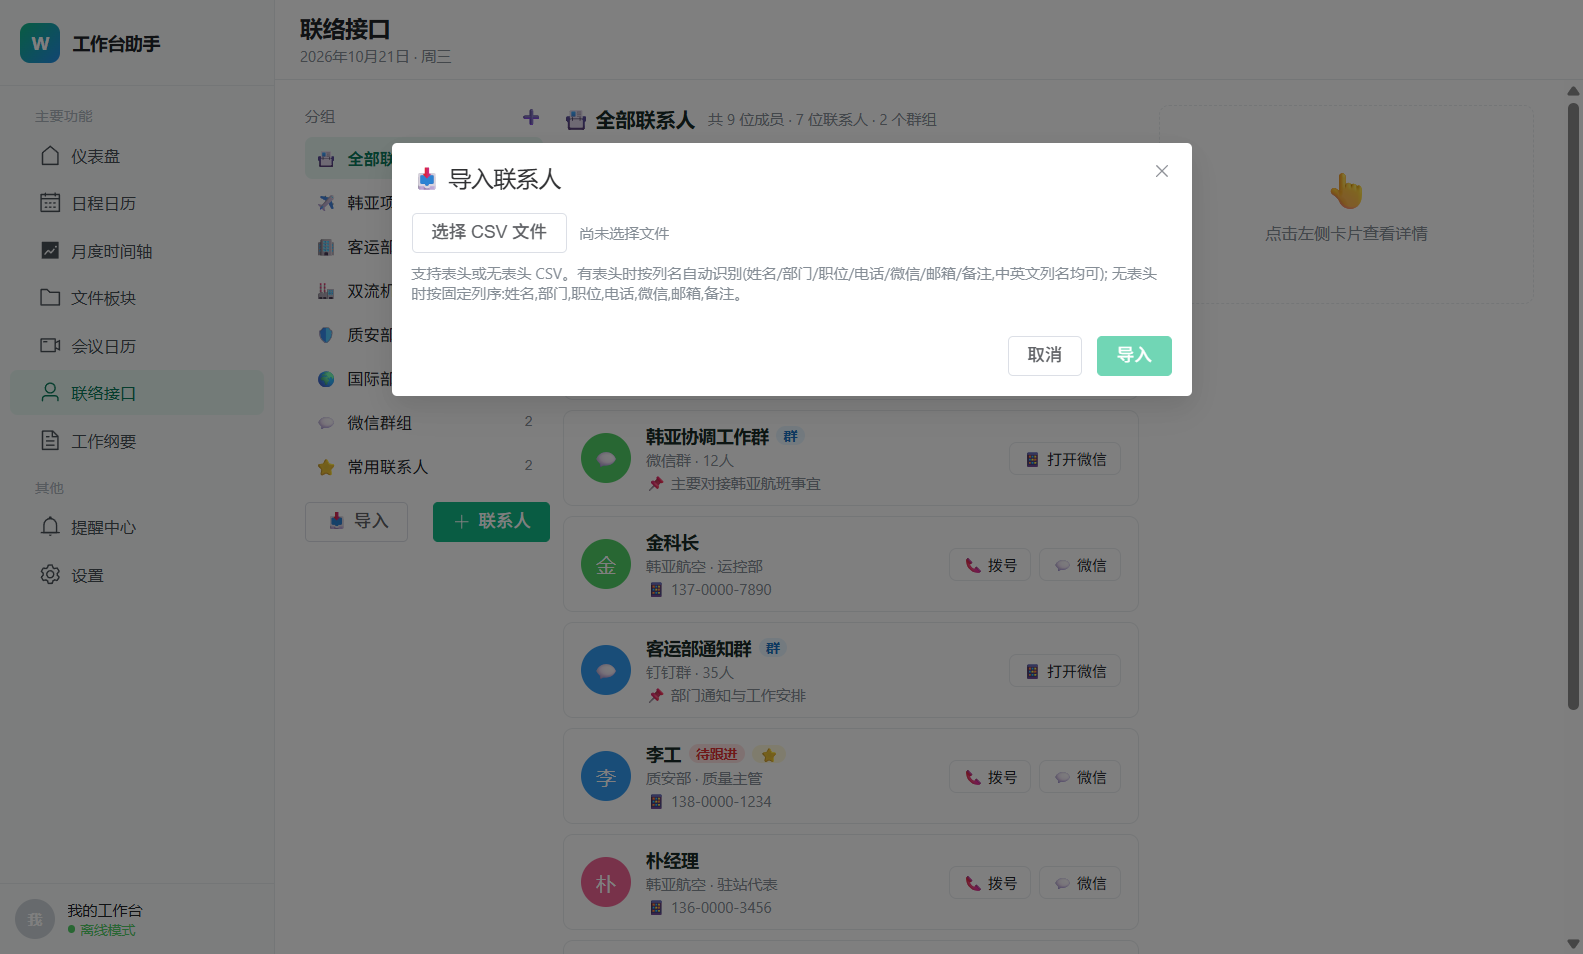
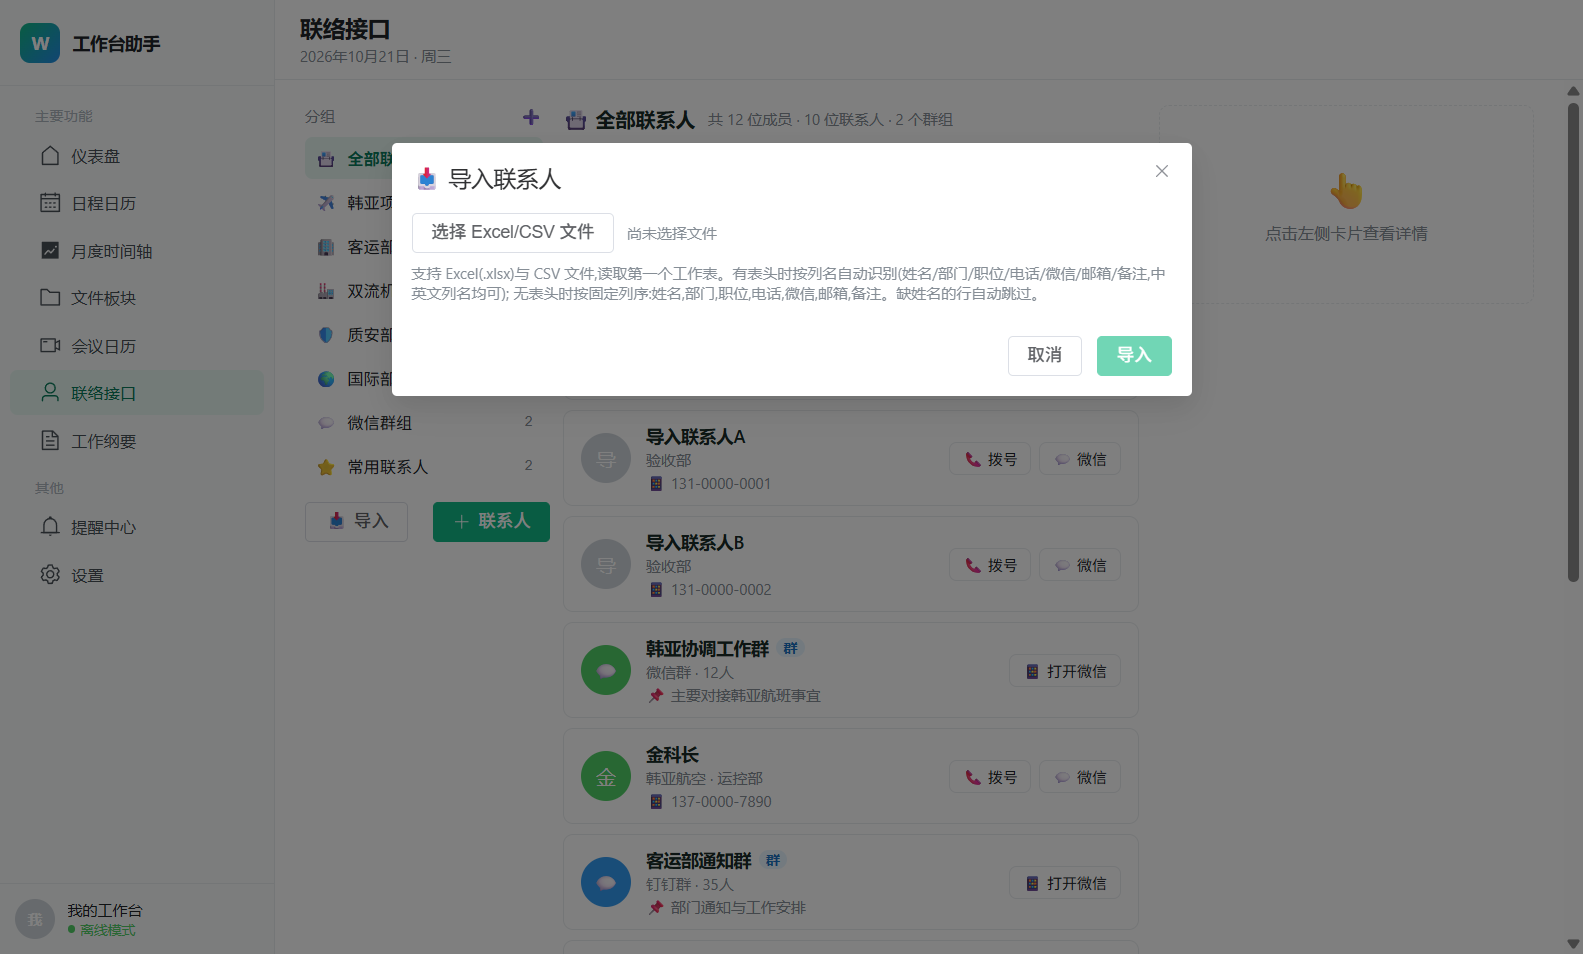
feat(板块05修订): 导入改为Excel优先:主进程SheetJS解析xlsx首个工作表为网格(数字单元格转字符串)、与CSV共用parseContactsRows语义层(表头识别/缺名跳过)、文件选择器过滤Excel/CSV、新增7项Excel网格解析单测(39/39)并更新验收报告与截图

diff --git a/work-assistant/src/renderer/src/utils/contacts.ts b/work-assistant/src/renderer/src/utils/contacts.ts
@@ -1,5 +1,5 @@
 /**
- * 联络接口纯计算逻辑:CSV 导入解析、分组/类型/待跟进筛选与排序、对接事项联动。
+ * 联络接口纯计算逻辑:通讯录导入解析(Excel 网格与 CSV 共用)、分组/类型/待跟进筛选与排序、对接事项联动。
  * 不依赖 DOM / 数据库,可在测试中独立验证(见 tests/contacts-tests.ts)。
  * 数据口径:通讯录同时容纳个人联系人与群组记录(PRD 4.6),二者同表、以 kind 区分。
  */
@@ -50,15 +50,16 @@ export function parseCsvLine(line: string): string[] {
 }
 
 /**
- * 解析通讯录 CSV:首行可为表头(按列名识别,兼容 姓名/名称/name 等),
+ * 解析通讯录表格网格(CSV 与 Excel 共用):首行可为表头(按列名识别,兼容 姓名/名称/name 等),
  * 无表头时按固定列序 姓名,部门,职位,电话,微信,邮箱,备注。缺姓名的行跳过并记录错误。
  */
-export function parseContactsCsv(text: string): { rows: CsvContact[]; errors: string[] } {
+export function parseContactsRows(grid: (string | number)[][]): { rows: CsvContact[]; errors: string[] } {
   const errors: string[] = []
-  const lines = text.split(/\r?\n/)
-  if (!lines.length || !lines.some((l) => l.trim())) return { rows: [], errors: ['文件为空'] }
+  if (!grid.length || !grid.some((r) => r.some((c) => String(c).trim()))) {
+    return { rows: [], errors: ['文件为空'] }
+  }
 
-  const header = parseCsvLine(lines[0])
+  const header = grid[0].map((c) => String(c ?? '').trim())
   const hasHeader = header.some((h) => /姓名|名称|name/i.test(h))
   const col = (patterns: RegExp): number => (hasHeader ? header.findIndex((h) => patterns.test(h)) : -1)
   const idx = hasHeader
@@ -74,25 +75,30 @@ export function parseContactsCsv(text: string): { rows: CsvContact[]; errors: st
     : { name: 0, dept: 1, pos: 2, phone: 3, wechat: 4, email: 5, remark: 6 }
 
   const rows: CsvContact[] = []
-  lines.slice(hasHeader ? 1 : 0).forEach((line, i) => {
-    if (!line.trim()) return
-    const cells = parseCsvLine(line)
-    const name = (idx.name >= 0 ? cells[idx.name] ?? '' : '').trim()
+  grid.slice(hasHeader ? 1 : 0).forEach((cells, i) => {
+    if (!cells.some((c) => String(c).trim())) return
+    const cell = (n: number): string => (n >= 0 && n < cells.length ? String(cells[n] ?? '').trim() : '')
+    const name = cell(idx.name)
     if (!name) {
       errors.push(`第 ${i + (hasHeader ? 2 : 1)} 行缺少姓名,已跳过`)
       return
     }
     rows.push({
       name,
-      department: (idx.dept >= 0 ? cells[idx.dept] ?? '' : '').trim(),
-      position: (idx.pos >= 0 ? cells[idx.pos] ?? '' : '').trim(),
-      phone: (idx.phone >= 0 ? cells[idx.phone] ?? '' : '').trim(),
-      wechat: (idx.wechat >= 0 ? cells[idx.wechat] ?? '' : '').trim(),
-      email: (idx.email >= 0 ? cells[idx.email] ?? '' : '').trim(),
-      remark: (idx.remark >= 0 ? cells[idx.remark] ?? '' : '').trim()
+      department: cell(idx.dept),
+      position: cell(idx.pos),
+      phone: cell(idx.phone),
+      wechat: cell(idx.wechat),
+      email: cell(idx.email),
+      remark: cell(idx.remark)
     })
   })
   return { rows, errors }
+}
+
+/** 解析通讯录 CSV 文本:先按行拆分为网格,再走 parseContactsRows(与 Excel 共用语义解析) */
+export function parseContactsCsv(text: string): { rows: CsvContact[]; errors: string[] } {
+  return parseContactsRows(text.split(/\r?\n/).map((l) => parseCsvLine(l)))
 }
 
 // ============ 待跟进联动(PRD 4.6 智能联动) ============

diff --git a/work-assistant/src/main/ipc.ts b/work-assistant/src/main/ipc.ts
@@ -1,5 +1,7 @@
 import { app, dialog, ipcMain, shell } from 'electron'
 import { readFileSync } from 'node:fs'
+import { extname } from 'node:path'
+import * as XLSX from 'xlsx'
 import { DatabaseSync } from 'node:sqlite'
 import type { DbResult, DbStatus } from '@shared/types'
 import { dbFilePath, schemaVersion } from './db/database'
@@ -143,18 +145,48 @@ export function registerIpc(): void {
     }
   })
 
-  // 通讯录导入:选择 CSV 文件并读回内容(渲染层解析,解析逻辑可单测)
+  // 通讯录导入:选择 Excel/CSV 文件(仅选文件,内容由 file:readImportFile 读取解析)
   ipcMain.handle(
-    'file:pickCsv',
-    async (): Promise<{ path: string; content: string } | null> => {
+    'file:pickImportFile',
+    async (): Promise<{ path: string; name: string } | null> => {
       const picked = await dialog.showOpenDialog({
-        title: '选择通讯录 CSV 文件',
+        title: '选择通讯录文件',
         properties: ['openFile'],
-        filters: [{ name: 'CSV 文件', extensions: ['csv', 'txt'] }]
+        filters: [
+          { name: 'Excel 文件', extensions: ['xlsx', 'xls'] },
+          { name: 'CSV 文件', extensions: ['csv', 'txt'] }
+        ]
       })
       if (picked.canceled || !picked.filePaths.length) return null
       const path = picked.filePaths[0]
-      return { path, content: readFileSync(path, 'utf8') }
+      return { path, name: path.split(/[\\/]/).pop() ?? path }
+    }
+  )
+
+  // 通讯录导入:读取并解析为表格网格。
+  // - .xlsx/.xls:SheetJS 解析首个工作表,统一转字符串单元格(日期/数字原样取值)
+  // - .csv/.txt:UTF-8 文本原样返回,由渲染层纯逻辑解析(可单测)
+  ipcMain.handle(
+    'file:readImportFile',
+    async (
+      _event,
+      filePath: string
+    ): Promise<{ kind: 'xlsx' | 'csv'; raw: string | string[][] }> => {
+      const ext = extname(filePath).toLowerCase()
+      if (ext === '.xlsx' || ext === '.xls') {
+        const wb = XLSX.read(readFileSync(filePath), { type: 'buffer' })
+        const sheet = wb.Sheets[wb.SheetNames[0]]
+        const rows = XLSX.utils.sheet_to_json<string[]>(sheet, {
+          header: 1,
+          raw: false,
+          defval: ''
+        })
+        return { kind: 'xlsx', raw: rows.map((r) => r.map((c) => String(c ?? '').trim())) }
+      }
+      // 其余扩展名按 CSV 文本处理
+      let text = readFileSync(filePath, 'utf8')
+      if (text.charCodeAt(0) === 0xfeff) text = text.slice(1)
+      return { kind: 'csv', raw: text }
     }
   )
 }

diff --git a/work-assistant/src/renderer/src/components/ImportContactsDialog.vue b/work-assistant/src/renderer/src/components/ImportContactsDialog.vue
@@ -1,12 +1,12 @@
 <script setup lang="ts">
 /**
- * 通讯录 CSV 导入(PRD 4.6「📥 导入」):选择 CSV → 解析预览 → 批量落库。
- * 解析逻辑见 utils/contacts.parseContactsCsv(纯函数,有单测)。
+ * 通讯录导入(PRD 4.6「📥 导入」):选择 Excel/CSV → 解析预览 → 批量落库。
+ * Excel 由主进程 SheetJS 解析为网格,与 CSV 共用 utils/contacts.parseContactsRows 语义解析(纯函数,有单测)。
  */
 import { ref } from 'vue'
 import { ElMessage } from 'element-plus'
 import { db } from '@/api/db'
-import { parseContactsCsv, type CsvContact } from '@/utils/contacts'
+import { parseContactsCsv, parseContactsRows, type CsvContact } from '@/utils/contacts'
 
 const props = defineProps<{
   modelValue: boolean
@@ -24,10 +24,11 @@ const importing = ref(false)
 
 async function pick(): Promise<void> {
   try {
-    const picked = await window.api.shell.pickCsv()
+    const picked = await window.api.shell.pickImportFile()
     if (!picked) return
     filePath.value = picked.path
-    const parsed = parseContactsCsv(picked.content)
+    const file = await window.api.shell.readImportFile(picked.path)
+    const parsed = file.kind === 'xlsx' ? parseContactsRows(file.raw as string[][]) : parseContactsCsv(file.raw as string)
     rows.value = parsed.rows
     errors.value = parsed.errors
     if (!parsed.rows.length) {
@@ -65,12 +66,12 @@ async function doImport(): Promise<void> {
     @update:model-value="emit('update:modelValue', $event)"
   >
     <div class="csv-imp__pick">
-      <el-button @click="pick">选择 CSV 文件</el-button>
+      <el-button @click="pick">选择 Excel/CSV 文件</el-button>
       <span class="csv-imp__path">{{ filePath || '尚未选择文件' }}</span>
     </div>
     <p class="csv-imp__hint">
-      支持表头或无表头 CSV。有表头时按列名自动识别(姓名/部门/职位/电话/微信/邮箱/备注,中英文列名均可);
-      无表头时按固定列序:姓名,部门,职位,电话,微信,邮箱,备注。
+      支持 Excel(.xlsx)与 CSV 文件,读取第一个工作表。有表头时按列名自动识别(姓名/部门/职位/电话/微信/邮箱/备注,中英文列名均可);
+      无表头时按固定列序:姓名,部门,职位,电话,微信,邮箱,备注。缺姓名的行自动跳过。
     </p>
     <el-table v-if="rows.length" :data="rows.slice(0, 8)" size="small" max-height="240">
       <el-table-column prop="name" label="姓名" width="110" />

diff --git a/work-assistant/tests/contacts-tests.ts b/work-assistant/tests/contacts-tests.ts
@@ -8,6 +8,7 @@ import {
   filterContacts,
   followupOf,
   parseContactsCsv,
+  parseContactsRows,
   parseCsvLine,
   sortContacts
 } from '../src/renderer/src/utils/contacts'
@@ -107,6 +108,22 @@ check('无表头按列序解析 2 行', nh.rows.length === 2)
 check('列序:姓名/部门/职位/电话/微信/邮箱/备注', nh.rows[0].name === '王主任' && nh.rows[0].wechat === 'wang' && nh.rows[0].email === '')
 check('第二行邮箱/备注', nh.rows[1].email === 'cui@example.com' && nh.rows[1].phone === '13600002222')
 check('英文表头兼容', parseContactsCsv('Name,Department\nAlice,QA').rows[0].name === 'Alice')
+
+console.log('【3.5】Excel 表格网格解析(与 CSV 共用语义层)')
+const xlsxGrid: (string | number)[][] = [
+  ['姓名', '部门', '职位', '电话', '微信', '邮箱', '备注'],
+  ['李工', '质安部', '质量主管', 13800001234, 'ligong', 'li@example.com', '负责Q3数据'],
+  ['朴经理', '韩亚航空', '驻站代表', 13900005678, '', '', ''],
+  ['', '缺少姓名行', '', '', '', '', '']
+]
+const xg = parseContactsRows(xlsxGrid)
+check('Excel 表头网格解析 2 行', xg.rows.length === 2)
+check('单元格取值与缺列补空', xg.rows[0].name === '李工' && xg.rows[0].phone === '13800001234' && xg.rows[1].wechat === '' && xg.rows[1].email === '')
+check('缺姓名行报第 4 行', xg.errors.length === 1 && /第 4 行/.test(xg.errors[0]))
+check('无表头网格按固定列序', parseContactsRows([['王主任', '综合部', '', '13500001111']]).rows[0].phone === '13500001111')
+check('数字单元格转字符串', parseContactsRows([['姓名', '电话'], ['李工', 13800009999]]).rows[0].phone === '13800009999')
+check('空网格报文件为空', parseContactsRows([]).errors[0] === '文件为空')
+check('英文表头网格兼容', parseContactsRows([['Name', 'Department'], ['Alice', 'QA']]).rows[0].name === 'Alice')
 
 console.log('【4】待跟进联动与截止文案')
 const NOW = new Date(2026, 9, 21, 10, 0) // 2026-10-21 周三

diff --git a/work-assistant/src/preload/index.ts b/work-assistant/src/preload/index.ts
@@ -11,12 +11,16 @@ const api = {
       ipcRenderer.invoke('db:invoke', action, payload)
   } satisfies DbApi,
 
-  /** 系统集成:拨号(仅 tel: 协议)与通讯录 CSV 导入 */
+  /** 系统集成:拨号(仅 tel: 协议)与通讯录 Excel/CSV 导入 */
   shell: {
     openExternal: (url: string): Promise<{ ok: boolean; error?: string }> =>
       ipcRenderer.invoke('shell:openExternal', url),
-    pickCsv: (): Promise<{ path: string; content: string } | null> =>
-      ipcRenderer.invoke('file:pickCsv')
+    pickImportFile: (): Promise<{ path: string; name: string } | null> =>
+      ipcRenderer.invoke('file:pickImportFile'),
+    readImportFile: (
+      filePath: string
+    ): Promise<{ kind: 'xlsx' | 'csv'; raw: string | string[][] }> =>
+      ipcRenderer.invoke('file:readImportFile', filePath)
   }
 }
 

diff --git a/work-assistant/src/preload/index.d.ts b/work-assistant/src/preload/index.d.ts
@@ -5,7 +5,10 @@ export interface Api {
   db: DbApi
   shell: {
     openExternal: (url: string) => Promise<{ ok: boolean; error?: string }>
-    pickCsv: () => Promise<{ path: string; content: string } | null>
+    pickImportFile: () => Promise<{ path: string; name: string } | null>
+    readImportFile: (
+      filePath: string
+    ) => Promise<{ kind: 'xlsx' | 'csv'; raw: string | string[][] }>
   }
 }
 

diff --git a/docs/acceptance/05-联络接口-验收报告.md b/docs/acceptance/05-联络接口-验收报告.md
@@ -1,8 +1,13 @@
 # 板块 05 验收报告:联络接口
 
-- 验收日期:2026-10-21
+- 验收日期:2026-10-21(修订:2026-10-21,按用户要求导入改为 Excel 优先)
 - 验收人:Claude(自动化验收)+ 用户(双击 启动应用.bat 复核)
 - 依据:PRD 4.6 联络接口
+
+> **修订记录(用户反馈)**:「CSV 不方便,最好是 Excel 文件」→ 导入改为 **Excel(.xlsx)优先、CSV 兼容**:
+> 主进程用 SheetJS(xlsx 0.18.5)解析首个工作表为表格网格,与 CSV 共用同一套语义解析层
+> `parseContactsRows`(表头识别/缺名跳过/固定列序,纯函数可单测);文件选择器过滤 Excel/CSV。
+> 原 CSV 解析逻辑全部保留,新增 Excel 网格解析单测 7 项(32 → 39 项)。
 
 ## 一、验收范围
 
@@ -14,7 +19,7 @@
 | B4 | 详情面板 | 头像、标签、📱 电话 + 📞 拨号、💬 微信 + 复制、📧 邮箱、🏷 所属分组、📌 群用途、关联对接事项(状态点 + 截止文案 已逾期/今日/明日/N天后)、编辑 / 设为常用(取消常用)/ 删除 |
 | B5 | 新建/编辑弹窗 | 类型切换 👤 联系人 / 💬 群组;联系人字段(姓名/部门/职位/电话/微信/邮箱);群组字段(群名/群类型可输入新增/成员数/群用途);共用(所属分组多选、颜色选择、设为常用、备注);编辑回填含所属分组 |
 | B6 | 管理分组弹窗 | 新增分组、行内改名、换图标、删除(仅解除成员关系,记录保留) |
-| B7 | 导入 CSV | 选择文件 → 解析预览(前 8 行)→ 汇总 + 错误提示 → 批量落库;支持表头/无表头、中英文列名自动识别、引号转义、缺姓名行跳过 |
+| B7 | 导入 Excel/CSV | 选择文件 → 解析预览(前 8 行)→ 汇总 + 错误提示 → 批量落库;**Excel(.xlsx)优先**(读取首个工作表,数字单元格如手机号自动转字符串),CSV 兼容;支持表头/无表头、中英文列名自动识别、引号转义、缺姓名行跳过 |
 | B8 | 拨号 / 微信 | 拨号走系统 tel: 协议(仅 tel: 白名单,无电话软件时 toast 提示无法唤起);微信复制微信号到剪贴板 + toast「请在微信中搜索」 |
 | B9 | 端到端 + 持久化 | 编辑器新建 → 落库 → 列表刷新 → 重启数据仍在;批量导入链路;验收隔离(profile05) |
 
@@ -23,23 +28,24 @@
 - **拨号/微信(与用户确认)**:离线桌面无法直接拉起微信,拨号采用系统 `tel:` 协议唤起默认电话软件,无电话软件时 toast「无法唤起电话拨号」;微信按钮复制微信号到剪贴板,toast「微信号「X」已复制,请在微信中搜索」。`shell:openExternal` IPC 仅放行 tel: 协议,其余一律拒绝(安全白名单)
 - **待跟进判定**:events 中 kind=task、category=对接、contact_id 非空、未完成未取消,且 end_time 已过(已逾期)或 ≤ 本周六 23:59;横幅按截止时间最早的展示,并显示「另有 N 位联系人待跟进」
 - **截止文案**:已逾期 / 今日 / 明日 / N天后(按自然日差)
-- **CSV 解析**:表头行按列名自动识别(姓名|名称|name、部门、职位、电话、微信、邮箱、备注,中英文均可,无表头按固定列序 姓名,部门,职位,电话,微信,邮箱,备注);双引号包裹与 `""` 转义;缺姓名行跳过并提示「第 N 行缺少姓名,已跳过」
+- **导入解析(Excel 与 CSV 共用语义层)**:主进程 SheetJS 将 xlsx 首个工作表解析为字符串网格(xls 兼容读取),CSV 走既有行解析;渲染层 `parseContactsRows` 统一做表头识别(姓名|名称|name、部门、职位、电话、微信、邮箱、备注,中英文均可,无表头按固定列序 姓名,部门,职位,电话,微信,邮箱,备注);CSV 额外支持双引号包裹与 `""` 转义;缺姓名行跳过并提示「第 N 行缺少姓名,已跳过」
 - **头像色**:8 色循环 #339AF0/#12B886/#9775FA/#FF922B/#F06595/#51CF66/#22B8CF/#F59F00,新建按当前联系人总数取模;群组头像显示 💬
 - **排序**:按姓名(中文拼音 localeCompare)、常用优先(⭐ 在前)、待跟进优先(截止最近在前)
 
 ## 三、自动化验收结果
 
-### 3.1 联络纯逻辑测试(tests/contacts-tests.ts)32/32 通过
+### 3.1 联络纯逻辑测试(tests/contacts-tests.ts)39/39 通过
 
 | 组 | 内容 |
 |----|------|
 | CSV 解析 | 引号内逗号不分列、`""` 转义、带表头/无表头/英文表头(名称/部门/职位/电话/微信/邮箱/备注)解析、缺姓名行报「第 5 行缺少姓名,已跳过」 |
+| Excel 网格解析(修订新增) | 与 CSV 同一份网格语义:表头识别、数字单元格(手机号)转字符串、缺列补空串、缺姓名行报「第 4 行」、无表头固定列序、空网格报「文件为空」、英文表头 |
 | 待跟进 | 今日截止 + 本周六前截止计入、已逾期计入、已完成/已取消/非对接/无联系人排除 |
 | 截止文案 | 已逾期 / 今日 / 明日 / 3天后 |
 | 筛选 | 分组(多分组任一命中)、类型、常用、待跟进、关键词(姓名/电话/群用途)、条件叠加 |
 | 排序 | 中文拼音序、常用优先、待跟进优先(按截止时间) |
 
-### 3.2 回归测试全部通过:数据库层 48/48、仪表盘 39/39、日历 50/50、会议 37/37、联络 32/32
+### 3.2 回归测试全部通过:数据库层 48/48、仪表盘 39/39、日历 50/50、会议 37/37、联络 39/39
 
 ### 3.3 截图验收(DOM 快照证据见 screenshots/board05-*.dom.json)
 
@@ -51,7 +57,8 @@
 - **联系人编辑器**(board05-editor):「新建联系人」,类型默认 👤 联系人,字段 类型/姓名/部门/职位/电话/微信/邮箱/所属分组/颜色/设为常用/备注
 - **群组编辑器**(board05-group-editor):切到 💬 群组 → 字段变 群名/群类型/成员数/群用途 + 共用字段
 - **管理分组**(board05-groups):6 个分组(图标/名称/改名/删除),新增输入占位「分组名称,如:韩亚项目组」
-- **导入弹窗**(board05-import):「📥 导入联系人」、选择文件按钮、列名规则提示文案、未选文件时导入按钮禁用
+- **导入弹窗**(board05-import):「📥 导入联系人」、「选择 Excel/CSV 文件」按钮、提示「支持 Excel(.xlsx)与 CSV 文件,读取第一个工作表…缺姓名的行自动跳过」、未选文件时导入按钮禁用
+- **Excel 解析链路**(board05-import-xlsx,修订新增):真实 .xlsx 样例文件走 `readImportFile` IPC → 主进程 SheetJS 解析:表头 姓名/部门/职位/电话/微信/邮箱/备注、6 行网格、数字手机号单元格转字符串(`numberCellIsString: true`)、缺姓名行原样保留由语义层跳过(该层单测用同一份网格覆盖);系统文件对话框无法在截图模式自动化,选择文件仅由用户复核
 - **像素验证**:待跟进红标签 #E03131 真实渲染(主界面 171px/详情 224px/持久化 136px);待跟进横幅粉底 #FFF5F5 全宽渲染(约 35 万像素);头像色 12/12 与分配色一致(computed style),其中 6 个视口内头像逐像素点探 6/6 MATCH(崔姐青 #22B8CF、导入A/B灰、韩亚协调工作群绿 #51CF66、金科长绿、客运部通知群蓝 #339AF0;截图物理像素 = CSS×1.25,Windows 显示缩放 125%)
 
 ### 3.4 端到端 + 持久化(注入脚本真实操作,数据库 + 页面双向验证)
@@ -79,7 +86,7 @@
 3. 点「李工」卡片 → 右侧详情:电话旁「📞 拨号」唤起系统拨号(若电脑无电话软件会提示无法唤起);微信旁「复制」→ 弹「请在微信中搜索」提示
 4. 「联系人」新建 → 切换 👤/💬 类型字段随之切换;保存后列表立即出现;编辑时所属分组正确回填
 5. ➕ 管理分组:新增/改名/换图标/删除;删除分组后联系人记录仍在
-6. 📥 导入:选择 CSV(可用 Excel 导出的 UTF-8 CSV)→ 预览前 8 行 → 导入;缺姓名的行会被跳过并提示
+6. 📥 导入:选择 **Excel(.xlsx)文件**(也可选 CSV)→ 预览前 8 行 → 导入;缺姓名的行会被跳过并提示;手机号列即使为数字格式也会按文本导入
 
 ## 五、遗留事项
 
